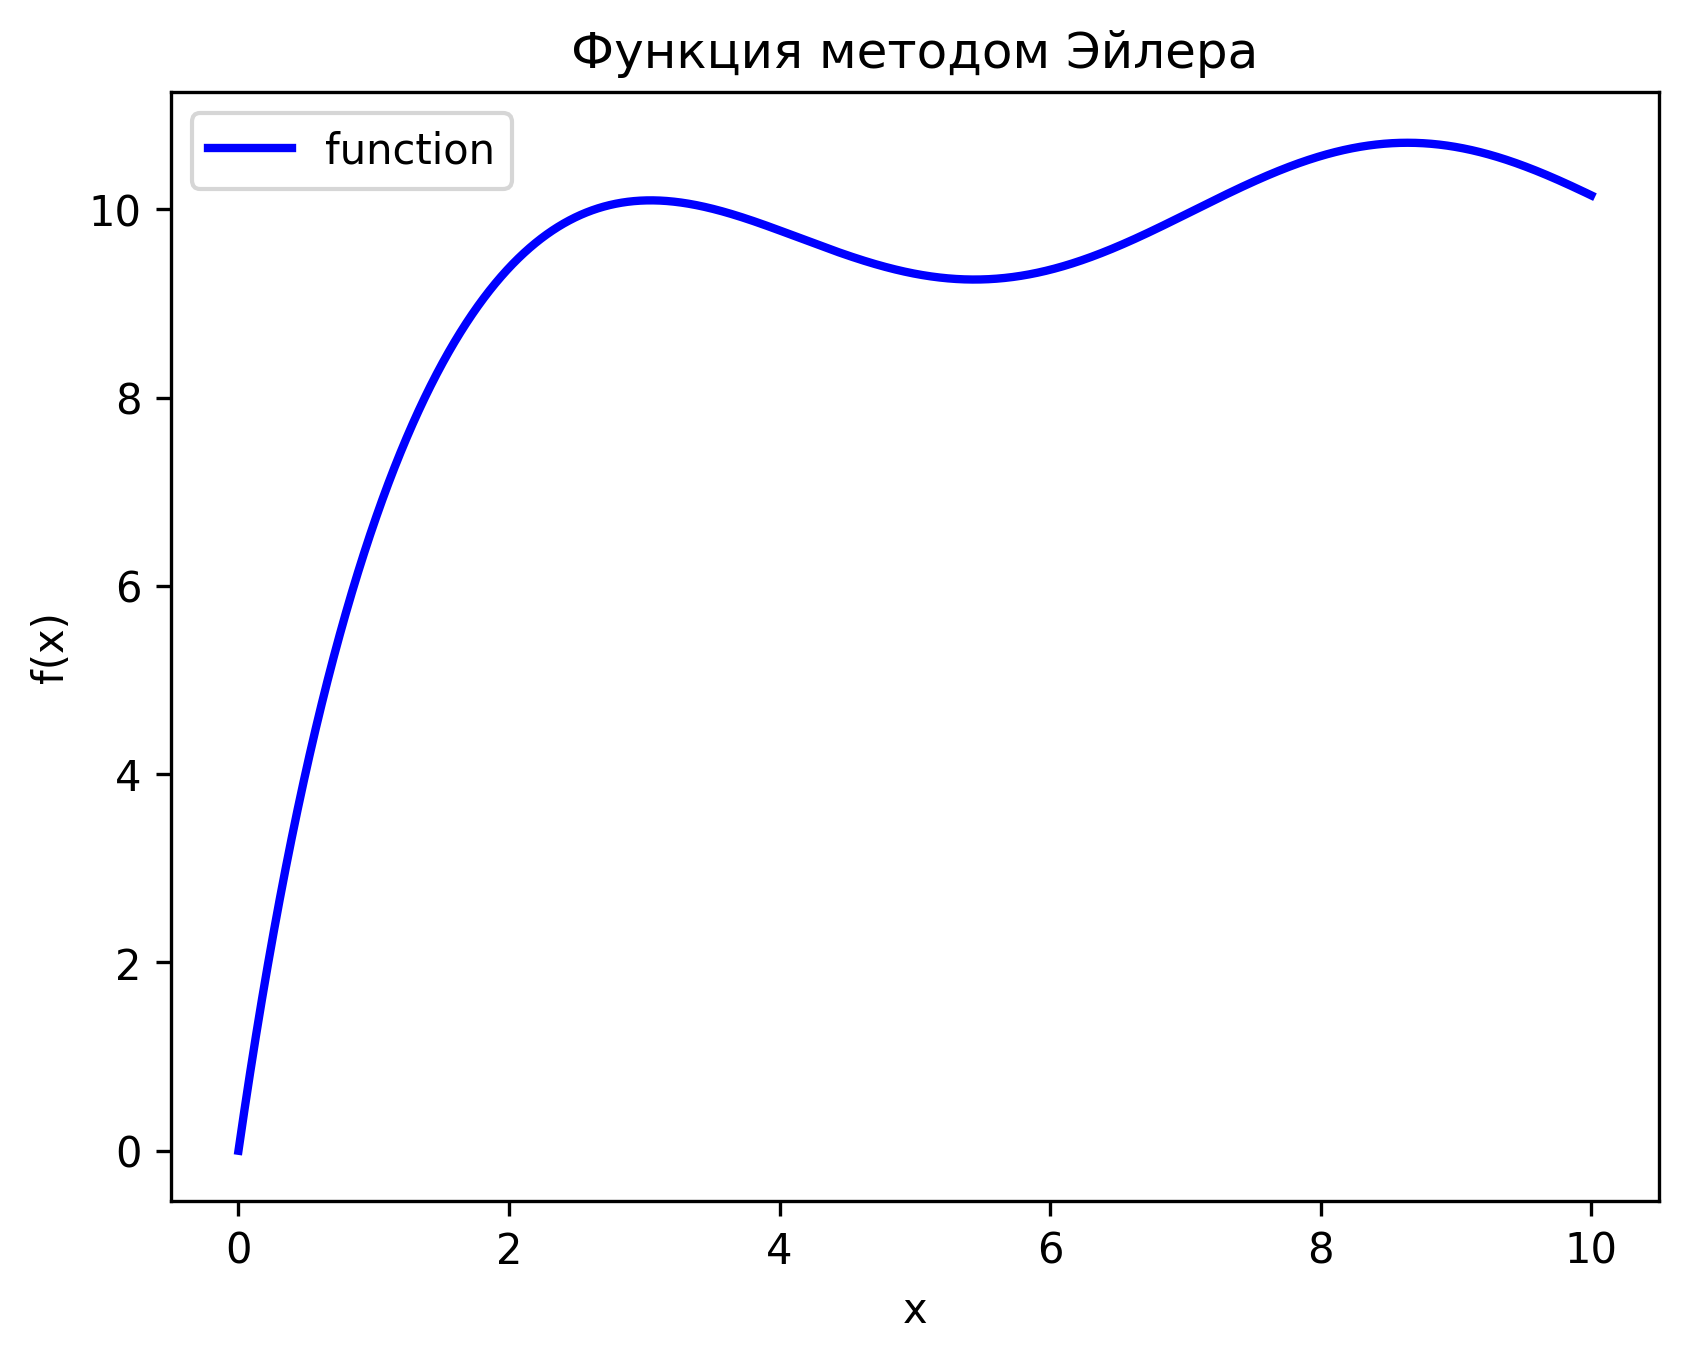
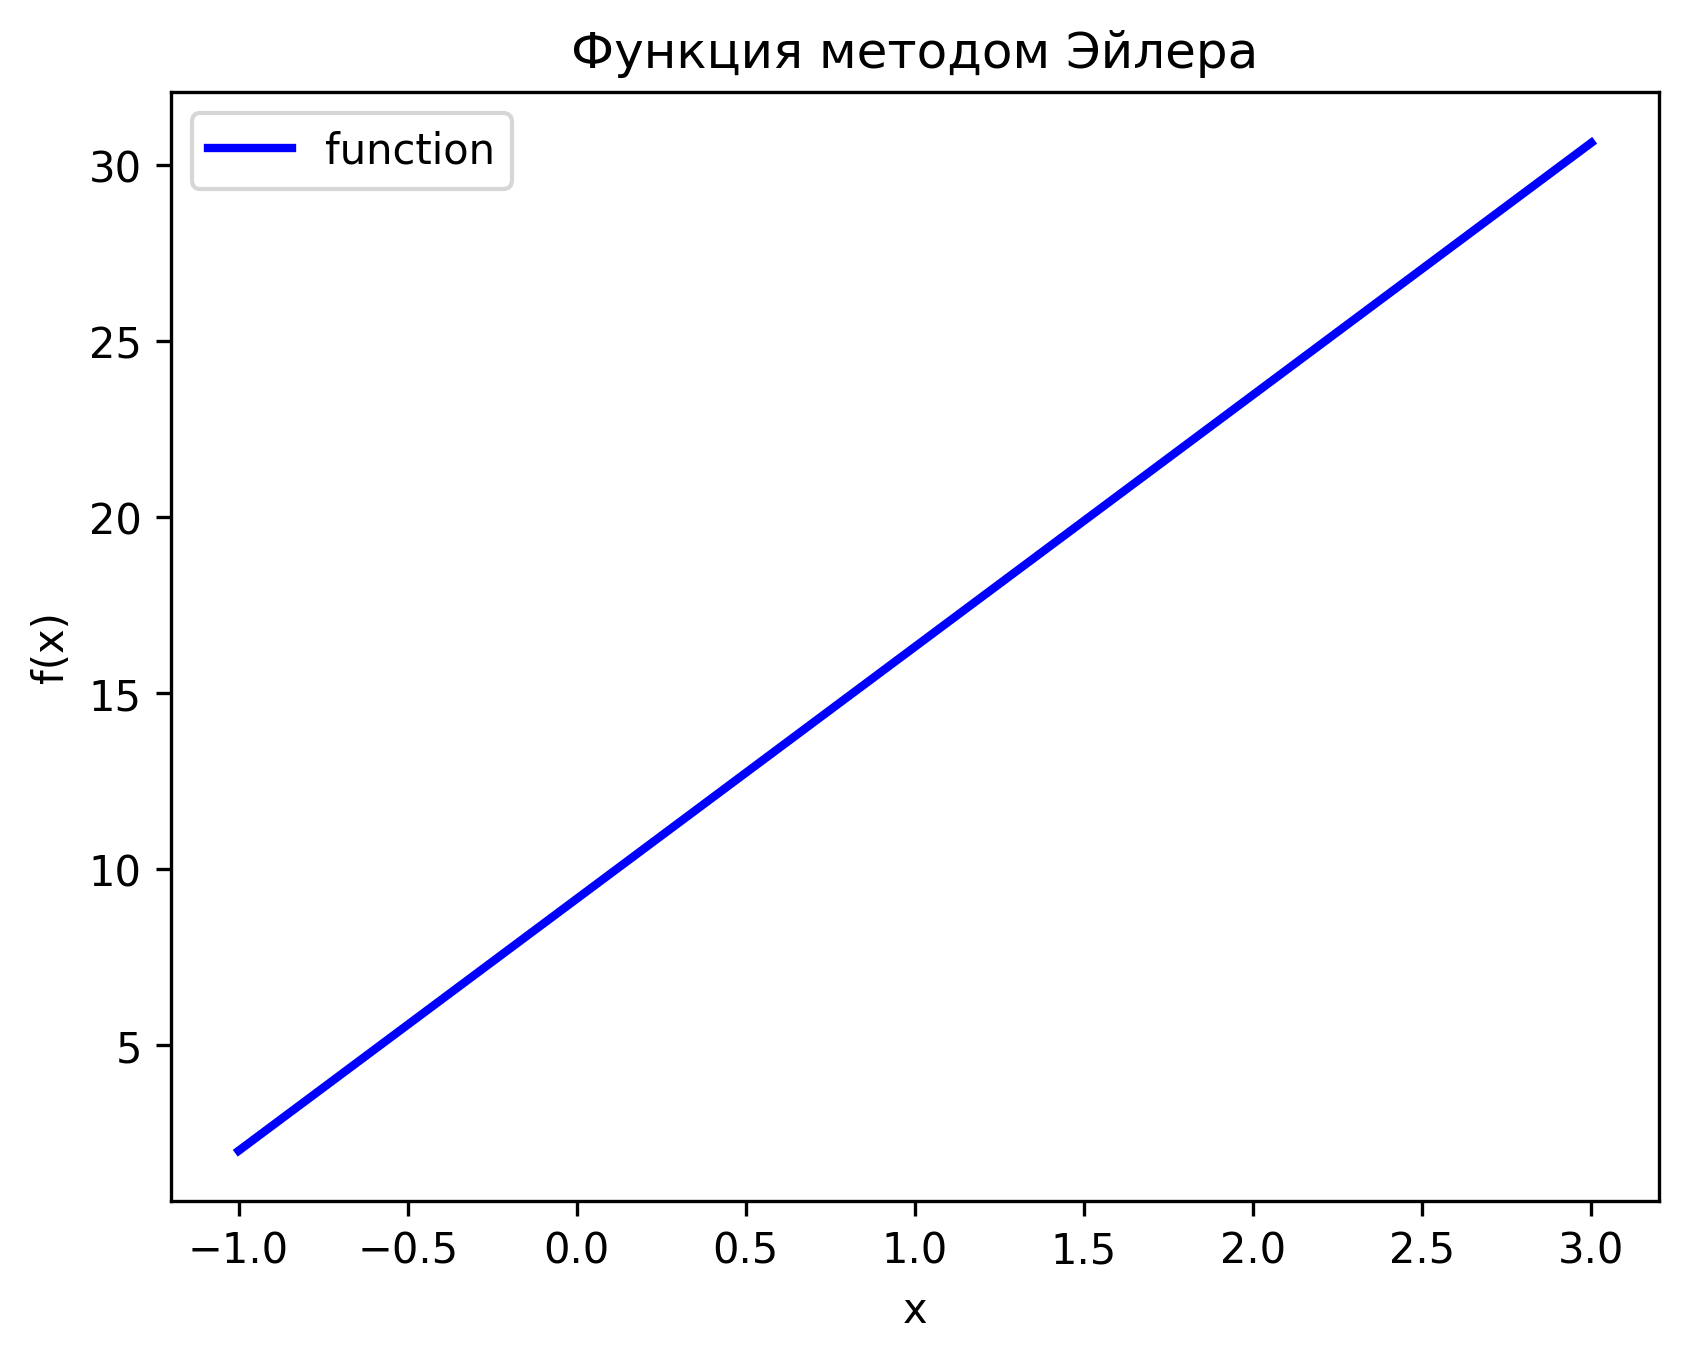
feat(math): выполнить лабораторную работу 3

diff --git a/Math_lab3.py b/Math_lab3.py
@@ -1,0 +1,130 @@
+import numpy as np
+import matplotlib.pyplot as plt
+import os
+# значения по умолчанию
+x = np.array([-2, 0, 2, 3, 4], dtype=float)
+y = np.array([18, 12, 7, -1, 0], dtype=float)
+
+filename = "data.txt"
+
+if os.path.exists(filename) and os.path.getsize(filename) > 0:
+    try:
+        data = np.loadtxt(filename)
+        # ожидаем 2 строки: первая x, вторая y
+        if data.shape[0] >= 2:
+            x = data[0]
+            y = data[1]
+    except Exception as e:
+        print("Ошибка чтения файла, используются значения по умолчанию:", e)
+print("x =", x)
+print("y =", y)
+# ПУНКТ 1
+# МНК через numpy (как математический пакет)
+coef_ls1 = np.polyfit(x, y, 1)
+coef_ls2 = np.polyfit(x, y, 2)
+coef_ls3 = np.polyfit(x, y, 3)
+# Интерполяция (4 степень)
+coef_interp = np.polyfit(x, y, 4)
+print("=== ПУНКТ 1 ===")
+print("МНК 1 степени:", coef_ls1)
+print("МНК 2 степени:", coef_ls2)
+print("МНК 3 степени:", coef_ls3)
+print("Интерполяционный многочлен:", coef_interp)
+# Построение
+x_plot = np.arange(min(x)-1, max(x)+1, 0.01)
+plt.figure(figsize=(9,6))
+plt.plot(x_plot, np.polyval(coef_ls1, x_plot), label="МНК 1")
+plt.plot(x_plot, np.polyval(coef_ls2, x_plot), label="МНК 2")
+plt.plot(x_plot, np.polyval(coef_ls3, x_plot), label="МНК 3")
+plt.plot(x_plot, np.polyval(coef_interp, x_plot), label="Интерполяция 4")
+plt.scatter(x, y)
+plt.grid()
+plt.legend()
+plt.title("Пункт 1 — расчёты")
+plt.show(block=False)
+# ПУНКТ 2
+def gauss(A, b):
+    n = len(b)
+    A = A.astype(float)
+    b = b.astype(float)
+    for i in range(n):
+        max_row = np.argmax(abs(A[i:, i])) + i
+        A[[i, max_row]] = A[[max_row, i]]
+        b[[i, max_row]] = b[[max_row, i]]
+        pivot = A[i, i]
+        A[i] /= pivot
+        b[i] /= pivot
+        for j in range(i + 1, n):
+            factor = A[j, i]
+            A[j] -= factor * A[i]
+            b[j] -= factor * b[i]
+    x_res = np.zeros(n)
+    for i in range(n - 1, -1, -1):
+        x_res[i] = b[i] - np.dot(A[i, i + 1:], x_res[i + 1:])
+    return x_res
+# МНК
+def least_squares(x, y, degree):
+    A = np.zeros((degree + 1, degree + 1))
+    b = np.zeros(degree + 1)
+    for i in range(degree + 1):
+        for j in range(degree + 1):
+            A[i, j] = np.sum(x ** (i + j))
+        b[i] = np.sum(y * x ** i)
+    return gauss(A, b)
+# ЛАГРАНЖ
+def lagrange(x_nodes, y_nodes, x_val):
+    n = len(x_nodes)
+    result = 0
+    for i in range(n):
+        L = 1
+        for j in range(n):
+            if i != j:
+                L *= (x_val - x_nodes[j]) / (x_nodes[i] - x_nodes[j])
+        result += y_nodes[i] * L
+    return result
+
+# НЬЮТОН
+def divided_differences(x, y):
+    n = len(x)
+    coef = np.copy(y)
+    for j in range(1, n):
+        coef[j:n] = (coef[j:n] - coef[j - 1:n - 1]) / (x[j:n] - x[0:n - j])
+    return coef
+
+def newton(x_nodes, coef, x_val):
+    n = len(coef)
+    result = coef[-1]
+    for i in range(n - 2, -1, -1):
+        result = result * (x_val - x_nodes[i]) + coef[i]
+    return result
+# ВЫЧИСЛЕНИЯ
+coef_ls1 = least_squares(x, y, 1)
+coef_ls2 = least_squares(x, y, 2)
+coef_ls3 = least_squares(x, y, 3)
+coef_interp = least_squares(x, y, 4)
+coef_newton = divided_differences(x, y)
+print("=== ПУНКТ 2 ===")
+print("МНК 1:", coef_ls1)
+print("МНК 2:", coef_ls2)
+print("МНК 3:", coef_ls3)
+print("Интерполяция (4):", coef_interp)
+print("\nЛагранж:")
+for val in x:
+    print(f"x={val}, y={lagrange(x, y, val)}")
+print("\nНьютон:")
+for val in x:
+    print(f"x={val}, y={newton(x, coef_newton, val)}")
+# ===== Графики =====
+x_plot = np.arange(min(x)-1, max(x)+1, 0.01)
+plt.figure(figsize=(9,6))
+plt.plot(x_plot, np.polyval(coef_ls1[::-1], x_plot), label="МНК 1")
+plt.plot(x_plot, np.polyval(coef_ls2[::-1], x_plot), label="МНК 2")
+plt.plot(x_plot, np.polyval(coef_ls3[::-1], x_plot), label="МНК 3")
+plt.plot(x_plot, np.polyval(coef_interp[::-1], x_plot), label="Интерполяция 4")
+plt.plot(x_plot, [lagrange(x, y, val) for val in x_plot], '--', label="Лагранж")
+plt.plot(x_plot, [newton(x, coef_newton, val) for val in x_plot], ':', label="Ньютон")
+plt.scatter(x, y)
+plt.grid()
+plt.legend()
+plt.title("Пункт 2 — программная реализация")
+plt.show()

diff --git a/Math_lab6.py b/Math_lab6.py
@@ -16,6 +16,8 @@ class Functions:
 class Solutions(Functions):
     @classmethod
     def Eiler_recursive(cls, x0: float, y0: float, xn: float, h: float = 1e-1, func: Callable = Functions.f1) -> float:
+        if not callable(func):
+            raise TypeError('func must be callable')
         if (x0 == xn or (x0 > xn and h > 0) or (x0 < xn and h < 0)):
             return y0
         if not h:
@@ -31,6 +33,10 @@ class Solutions(Functions):
     def Eiler(x0: float, y0: float, xn: float, h: float = 1e-6, *, func: Callable = Functions.f1):
         if not h:
             raise ValueError('incorrect value of h')
+        if not callable(func):
+            raise TypeError('func must be callable')
+        if (x0 == xn or (x0 > xn and h > 0) or (x0 < xn and h < 0)):
+            return y0
 
         x = []
         y = []
@@ -58,6 +64,12 @@ class Solutions(Functions):
             raise ValueError('incorrect value of h')
         if h > 0 and x0 > xn:
             h = -h
+        if not callable(func):
+            raise TypeError('func must be callable')
+        if (x0 == xn or (x0 > xn and h > 0) or (x0 < xn and h < 0)):
+            return y0
+        if e <= 0:
+            raise ValueError('e must be positive')
 
         min_h = 1e-100
         max_h = abs(xn - x0)
@@ -109,8 +121,14 @@ class Solutions(Functions):
                     func: Callable = Functions.f1):
         if not h:
             raise ValueError('incorrect value of h')
+        if x_prelast == xn:
+            raise ValueError('x0 and xn are equal')
         if h > 0 and x_prelast > xn:
             h = -h
+        if not callable(func):
+            raise TypeError('func must be callable')
+        if e <= 0:
+            raise ValueError('e must be positive')
 
         x = [x_prelast]
         y = [y_prelast]
@@ -125,6 +143,17 @@ class Solutions(Functions):
 
         x.append(x_last)
         y.append(y_last)
+
+        '''
+        x_last = x0 + h
+        y_last = y0 + h * func(x0, y0)
+
+        x.append(x_last)
+        y.append(y_last)
+
+        if abs(x1 - xn) < abs(h):
+            return y1, x, y
+        '''
 
         while (h > 0 and x_last < xn) or (h < 0 and x_last > xn):
             current_h = h
@@ -167,8 +196,10 @@ class Solutions(Functions):
 
 
     @classmethod
-    def draw(cls, x0: float, y0: float, xn: float, h: float = 1e-6, *, func: Callable = Functions.f1, method: Callable = Eiler, name: str = 'Function'):
+    def draw(cls, x0: float, y0: float, xn: float, h: float = 1e-6, eps=1, *, func: Callable = Functions.f1, method: Callable = Eiler, name: str = 'Function'):
         y0, x, y = method(x0, y0, xn, h, func=func)
+        if not y0 or not x or not y:
+            raise ValueError('y0, x0, and xn не заданы!')
         plt.plot(x, y, 'b-', linewidth=2, label='function')
         plt.xlabel('x')
         plt.ylabel('f(x)')
@@ -182,30 +213,29 @@ class Solutions(Functions):
 
 
 #print(Solutions.Eiler_recursive(0, 0, 10)) # Велика вероятность переполнения стека вызовов
-print('Эйлер, h = 10e-4 ',Solutions.Eiler(0, 0, 10, 10e-4)[0])
-print('Рунге-Кутты-Мерсона, h = 10e-15, e = 10e-15',Solutions.Runge_Kutte_Merson(0, 0, 10, 10e-15, 10e-15)[0])
-print("Эйлера-Адамса, h = 10e-10, e = 10e-10",Solutions.Eiler_Adams(0, 0, 10, 10e-10, 10e-10)[0])
+#print('Эйлер, h = 10e-4 ', Solutions.Eiler(4, 0, -6, 3)[0])
+#print('Рунге-Кутты-Мерсона, h = 10e-15, e = 10e-15',Solutions.Runge_Kutte_Merson(4, 0, -6, 3, 0.01)[0])
+#print("Эйлера-Адамса, h = 10e-10, e = 10e-10",Solutions.Eiler_Adams(4, 0, -6, 3, 0.01)[0])
 
-print('Эйлер, h = 10e-2 ',Solutions.Eiler(0, 0, 10, 10e-2)[0])
-print('Рунге-Кутты-Мерсона, h = 10e-10, e = 10e-10',Solutions.Runge_Kutte_Merson(0, 0, 10, 10e-10, 10e-10)[0])
-print("Эйлера-Адамса, h = 6e-10, e = 6e-10",Solutions.Eiler_Adams(0, 0, 10, 6e-10, 6e-10)[0])
+#print('Эйлер, h = 10e-2 ',Solutions.Eiler(0, 0, 10, 10e-2)[0])#print('Рунге-Кутты-Мерсона, h = 10e-10, e = 10e-10',Solutions.Runge_Kutte_Merson(0, 0, 10, 10e-10, 10e-10)[0])
+#print("Эйлера-Адамса, h = 6e-10, e = 6e-10",Solutions.Eiler_Adams(0, 0, 10, 6e-10, 6e-10)[0])
 
-print('Эйлер, h = 1 ',Solutions.Eiler(0, 0, 10, 1)[0])
-print('Рунге-Кутты-Мерсона, h = 5e-10, e = 5e-10',Solutions.Runge_Kutte_Merson(0, 0, 10, 5e-10, 5e-10)[0])
-print("Эйлера-Адамса, h = 3e-10, e = 3e-10",Solutions.Eiler_Adams(0, 0, 10, 3e-10, 3e-10)[0])
+#print('Эйлер, h = 1 ',Solutions.Eiler(0, 0, 10, 1)[0])
+#print('Рунге-Кутты-Мерсона, h = 5e-10, e = 5e-10',Solutions.Runge_Kutte_Merson(0, 0, 10, 5e-10, 5e-10)[0])
+#print("Эйлера-Адамса, h = 3e-10, e = 3e-10",Solutions.Eiler_Adams(0, 0, 10, 3e-10, 3e-10)[0])
 
-print('Эйлер, h = 10 ',Solutions.Eiler(0, 0, 10, 10)[0])
-print('Рунге-Кутты-Мерсона, h = 2e-10, e = 2e-10',Solutions.Runge_Kutte_Merson(0, 0, 10, 2e-10, 2e-10)[0])
-print("Эйлера-Адамса, h = 2e-10, e = 2e-10",Solutions.Eiler_Adams(0, 0, 10, 2e-10, 2e-10)[0])
+#print('Эйлер, h = 10 ',Solutions.Eiler(0, 0, 10, 10)[0])
+#print('Рунге-Кутты-Мерсона, h = 2e-10, e = 2e-10',Solutions.Runge_Kutte_Merson(0, 0, 10, 2e-10, 2e-10)[0])
+#print("Эйлера-Адамса, h = 2e-10, e = 2e-10",Solutions.Eiler_Adams(0, 0, 10, 2e-10, 2e-10)[0])
 
-print('Рунге-Кутты-Мерсона, h = 1e-10, e = 1e-10',Solutions.Runge_Kutte_Merson(0, 0, 10, 1e-10, 1e-10)[0])
-print("Эйлера-Адамса, h = 1e-10, e = 1e-10",Solutions.Eiler_Adams(0, 0, 10, 1e-10, 1e-10)[0])
-print('Рунге-Кутты-Мерсона, h = 1, e = 1',Solutions.Runge_Kutte_Merson(0, 0, 10, 1, 1)[0])
-print("Эйлера-Адамса, h = 1, e = 1",Solutions.Eiler_Adams(0, 0, 10, 1, 1)[0])
+#print('Рунге-Кутты-Мерсона, h = 1e-10, e = 1e-10',Solutions.Runge_Kutte_Merson(0, 0, 10, 1e-10, 1e-10)[0])
+#print("Эйлера-Адамса, h = 1e-10, e = 1e-10",Solutions.Eiler_Adams(0, 0, 10, 1e-10, 1e-10)[0])
+#print('Рунге-Кутты-Мерсона, h = 1, e = 1',Solutions.Runge_Kutte_Merson(0, 0, 10, 1, 1)[0])
+#print("Эйлера-Адамса, h = 1, e = 1",Solutions.Eiler_Adams(0, 0, 10, 1, 1)[0])
 
 
-print('Рунге-Кутты-Мерсона, h = 10, e = 10',Solutions.Runge_Kutte_Merson(0, 0, 10, 10, 10)[0])
-print("Эйлера-Адамса, h = 10, e = 10",Solutions.Eiler_Adams(0, 0, 10, 10, 10)[0])
-#print(Solutions.draw(0, 0, 10, method=Solutions.Eiler, name='Эйлер'))
-#print(Solutions.draw(0, 0, 10, method=Solutions.Runge_Kutte_Merson, name = 'Рунге-Кутте-Мерсон'))
-#print(Solutions.draw(0, 0, 10, method=Solutions.Eiler_Adams, name = 'Эйлер-Адамс'))
+#print('Рунге-Кутты-Мерсона, h = 10, e = 10',Solutions.Runge_Kutte_Merson(0, 0, 10, 10, 10)[0])
+#print("Эйлера-Адамса, h = 10, e = 10",Solutions.Eiler_Adams(0, 0, 10, 10, 10)[0])
+print(Solutions.draw(-1, 2, 4, 4, method=Solutions.Eiler, name='Эйлер'))
+print(Solutions.draw(-1, 2, 4, 4, method=Solutions.Runge_Kutte_Merson, name = 'Рунге-Кутте-Мерсон'))
+print(Solutions.draw(-1, 2, 4, 4, method=Solutions.Eiler_Adams, name = 'Эйлер-Адамс'))

diff --git a/Math_lab5.py b/Math_lab5.py
@@ -8,6 +8,8 @@ class Functions:
 
     @classmethod
     def derivative(cls, x: list , y: list, h: float = 1e-6):
+        if not x or not y or not h:
+            raise ValueError('Ошибка в диференцировании: не заданы переменные')
         n = len(x)
         derivatives = [(-3*y[0] + 4*y[1] - y[2]) / (2*h)]
         for i in range(1, n-1):
@@ -17,6 +19,8 @@ class Functions:
 
     @classmethod
     def second_derivative(cls, x: list, y: list, h: float = 1e-6):
+        if not x or not y or not h:
+            raise ValueError('Ошибка в диференцировании: не заданы переменные')
         n = len(x)
         derivatives = []
 
@@ -32,6 +36,8 @@ class Functions:
 
     @classmethod
     def sixth_derivative(cls, x: list, y: list, h: float = 1e-6):
+        if not x or not y or not h:
+            raise ValueError('Ошибка в диференцировании: не заданы переменные')
         n = len(x)
         if n < 7:
             return [0]
@@ -46,6 +52,10 @@ class Functions:
 class Methods:
     @classmethod
     def left_rectangle(cls, x_start: float = 0.5, x_end: float = 4.5, h: float = 1e-3, with_r: bool = False, func: Callable = Functions.func) -> float:
+        if not x_start or not x_end or not h or not with_r or not func:
+            raise ValueError('Параметры left_rectangle заданы неверно!')
+        if not callable(func):
+            raise TypeError('func must be callable')
         total_sum: float = 0
         x = x_start
         if (with_r):
@@ -70,6 +80,12 @@ class Methods:
 
     @classmethod
     def average_rectangle(cls, x_start: float = 0.5, x_end: float = 4.5, h: float = 10e-3, with_r: bool = False, func: Callable = Functions.func) -> float:
+
+        if not x_start or not x_end or not h or not with_r or not func:
+            raise ValueError('Параметры left_rectangle заданы неверно!')
+        if not callable(func):
+            raise TypeError('func must be callable')
+
         total_sum = 0
         x = x_start
         if (with_r):
@@ -91,6 +107,11 @@ class Methods:
 
     @classmethod
     def sixth_order_accuracy(cls, x_start: float = 0.5, x_end: float = 4.5, h: float = 1e-3, with_r: bool = False, func: Callable = Functions.func) -> float:
+
+        if not x_start or not x_end or not h or not with_r or not func:
+            raise ValueError('Параметры left_rectangle заданы неверно!')
+        if not callable(func):
+            raise TypeError('func must be callable')
 
         n_segments = int((x_end - x_start) / h)
 
@@ -136,6 +157,21 @@ class Methods:
 
     @classmethod
     def find_h(cls, function: Callable, x_start: float = 0.5, x_end: float = 4.5, eps: float = 1e-3, p: int = 1):
+
+        if p / int(p) != 1:
+            print('Заданный порядок точности должен быть целочисленным! Продолжаем с округлением в меньшую сторону.')
+            p = int(p)
+        if p < 1:
+            print('Заданный порядок точности должен быть натуральным числом! Продолжаем с порядком точности = 1')
+            p = 1
+        if eps <= 0:
+            print('Ошибка в задании epsilon, продолжаем со значением по умолчанию!')
+            eps = 1e-3
+        if not x_start or not x_end or not function or not eps or not p:
+            raise ValueError('Параметры left_rectangle заданы неверно!')
+        if not callable(function):
+            raise TypeError('func must be callable')
+
         h = (x_end - x_start) / 4
 
         while True:

diff --git a/Math_lab2.py b/Math_lab2.py
@@ -1,6 +1,5 @@
 from math import inf
 
-
 class Matrix:
     @classmethod
     def input_matrix(cls):

diff --git a/Math_lab4.py b/Math_lab4.py
@@ -1,5 +1,6 @@
 #Разрывы
 #Производная по-другому
+
 from math import inf
 from typing import Callable
 from Math_lab2 import Thomas